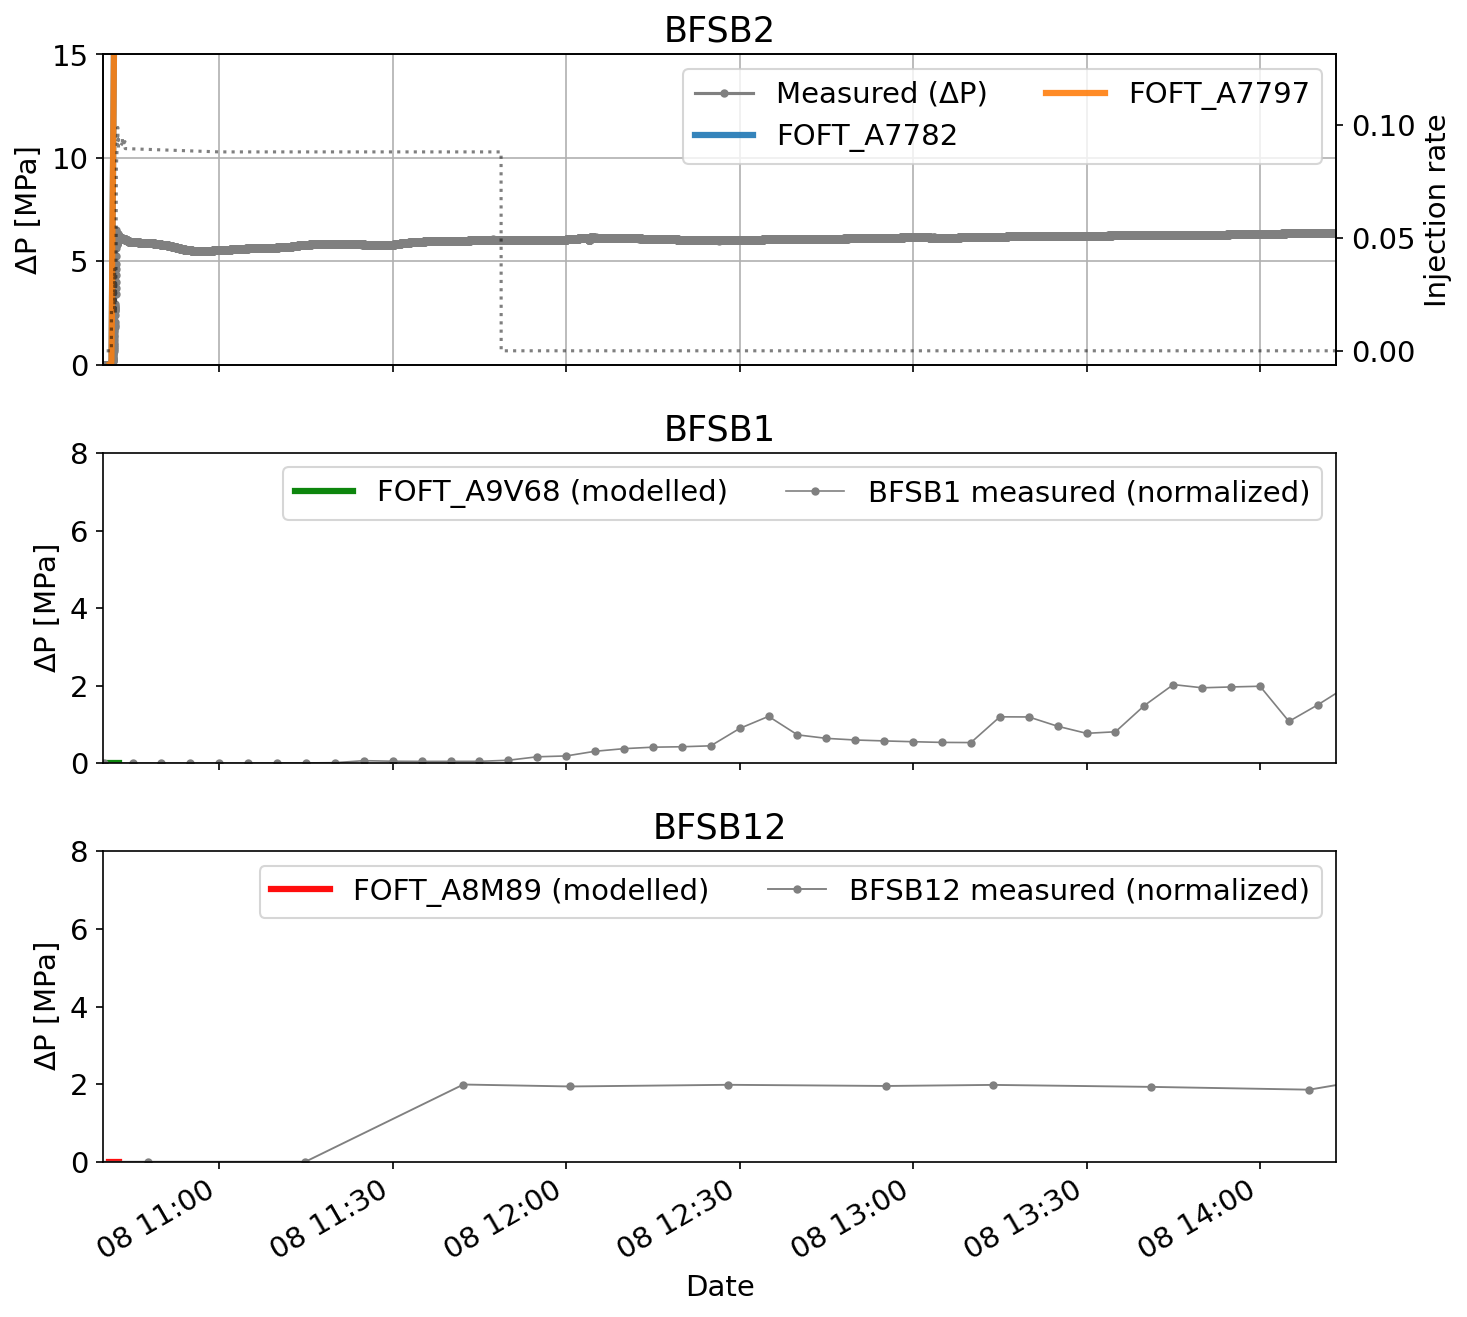
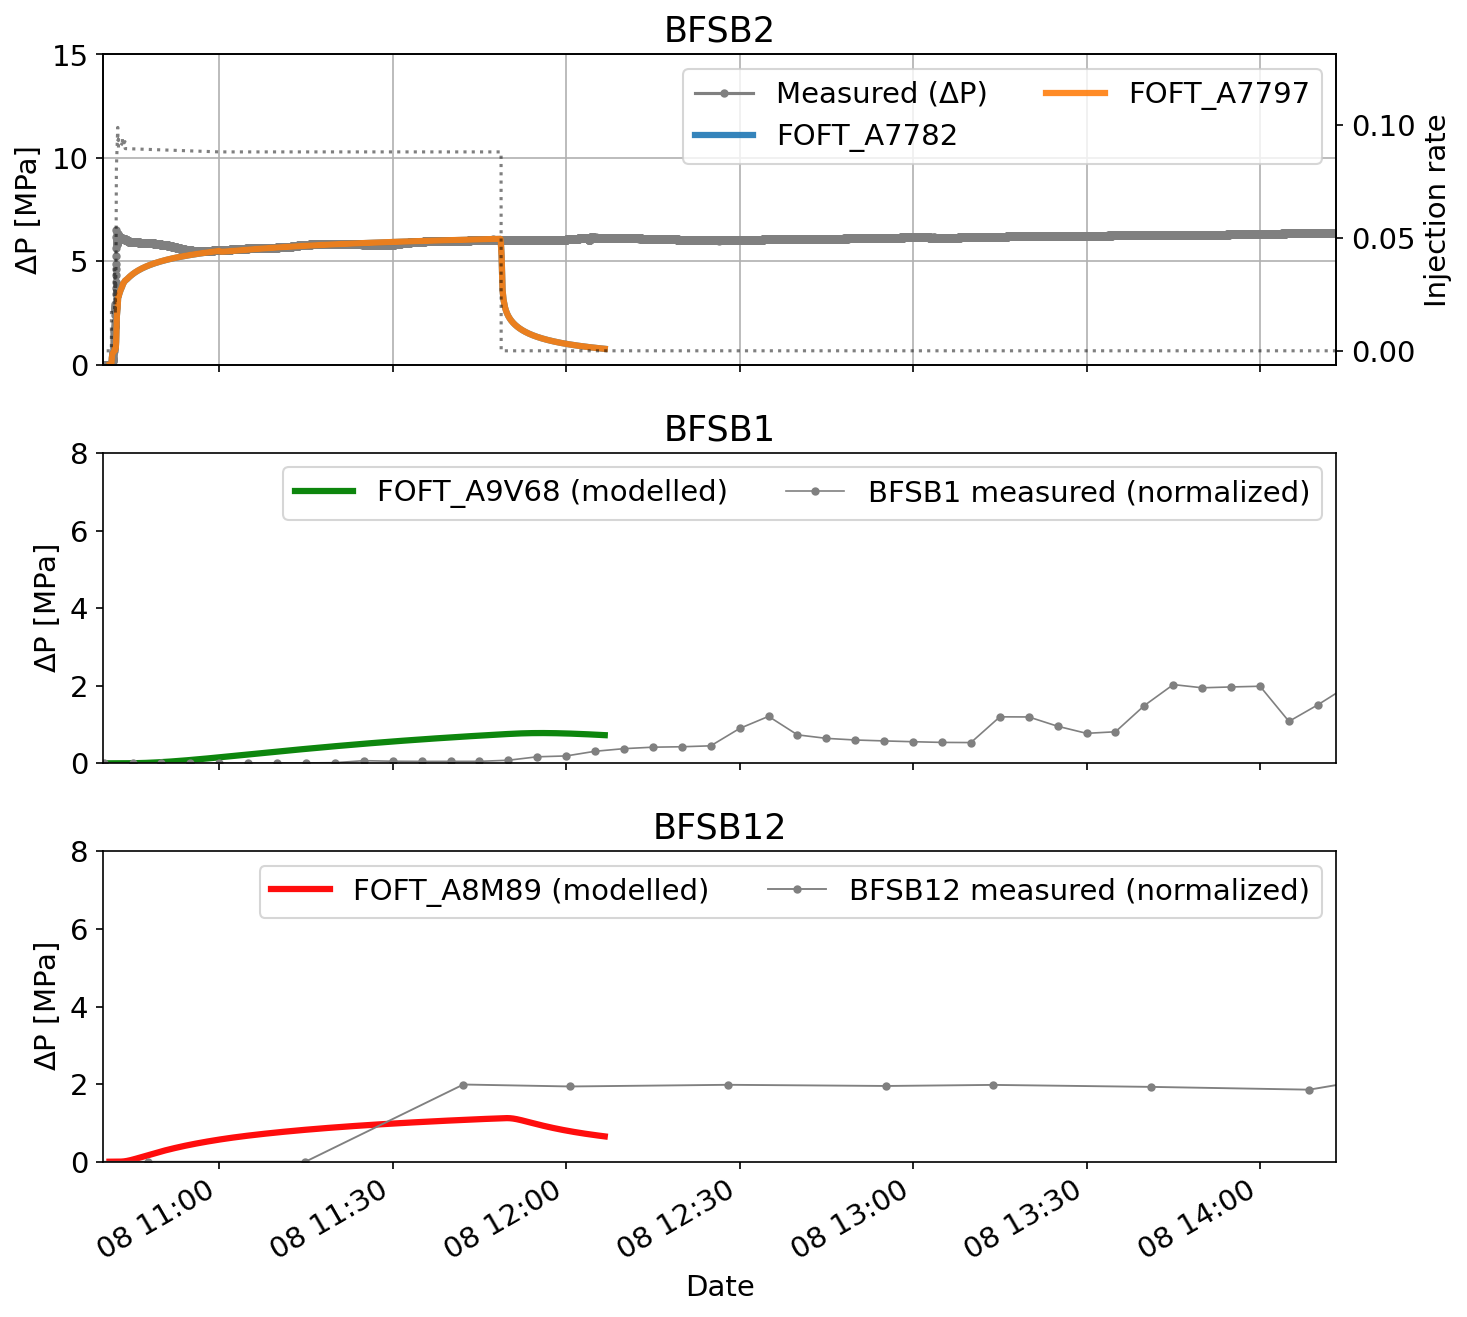
higher compres

diff --git a/foft_plotter.py b/foft_plotter.py
@@ -8,8 +8,8 @@ import matplotlib as mpl
 mpl.rcParams.update({"font.size": 14})
 
 # ---------------- paths ----------------
-#folder   = Path("/Users/matthijsnuus/Desktop/FS-C/model/coupled_model/3_THM/")
-folder   = Path("/Users/matthijsnuus/Desktop/FS-C/model/injection_model/")
+folder   = Path("/Users/matthijsnuus/Desktop/FS-C/model/coupled_model/3_THM/")
+#folder2   = Path("/Users/matthijsnuus/Desktop/FS-C/model/injection_model/")
 foft_dir = Path("/Users/matthijsnuus/Desktop/FS-C/model/previous_fofts")
 
 bfsb1_path  = foft_dir / "BFSB1_meas.csv"
@@ -270,7 +270,7 @@ ax_bot.set_title("BFSB12")
 
 ax_top.set_xlim(xmin, xmax)   # applies to all panels (sharex=True)
 
-mark = (start_utc + pd.to_timedelta(0, unit="D")).tz_localize(None)
+mark = (start_utc + pd.to_timedelta(1.145, unit="D")).tz_localize(None)
 # or explicitly: mark = pd.Timestamp("2023-05-08 11:02:43.700000")
 
 for a in (ax_top, ax_mid, ax_bot):

diff --git a/aperture_plotter.py b/aperture_plotter.py
@@ -17,7 +17,7 @@ import matplotlib.pyplot as plt
 # Inputs
 # -------------------------------------------------
 br = 15e-6              # m
-bmax = 600e-6            # m
+bmax = 200e-6            # m
 alpha = 0.8             # 1/MPa  (works with sigma in MPa)
 sigma_n = np.linspace(0, 7.2, 100)  # MPa
 sigma_ni = 4.2          # MPa  (initial effective normal stress)
@@ -46,7 +46,7 @@ bop = e_pT * w  # scalar (m)
 bsh = e_pS * np.tan(np.deg2rad(psi)) / sf  # (len(e_pS),)
 
 # ---- cap shear aperture at 100 µm ----
-bsh_max = 200e-6  # m
+bsh_max = 500e-6  # m
 bsh = np.clip(bsh, 0.0, bsh_max)  # keep it non-negative and <= 100 µm
 
 
